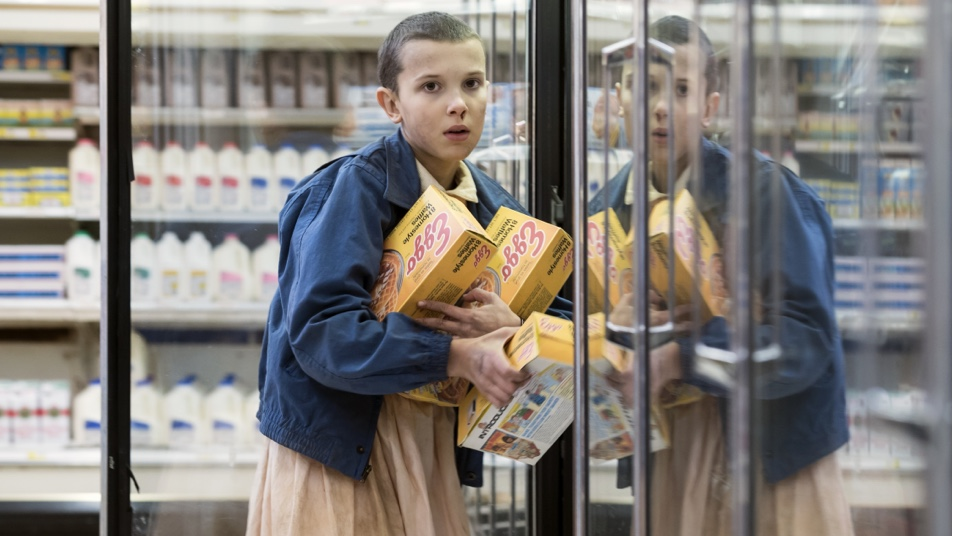
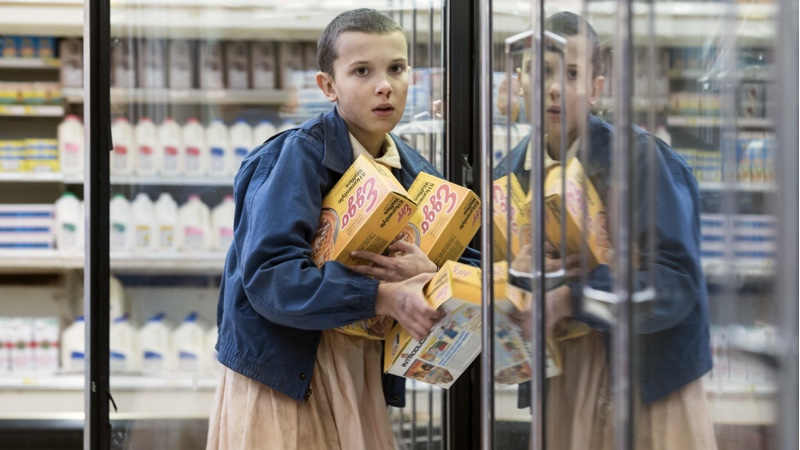
chore: img resize

diff --git a/src/app/core/unauthorised/unauthorised.component.html b/src/app/core/unauthorised/unauthorised.component.html
@@ -5,12 +5,13 @@
     again.
   </p>
 
-
-  <picture>
-    <source srcset="./assets/imgs/page-not-found.webp" type="image/webp">
-    <source srcset="./assets/imgs/page-not-found.png" type="image/png">
-    <img mat-card-image class="character-img" src="./assets/imgs/page-not-found.png" alt="404 page" width="auto"
-      height="auto">
-  </picture>
+  <div class="character-photo">
+    <picture>
+      <source srcset="./assets/imgs/page-not-found.webp" type="image/webp">
+      <source srcset="./assets/imgs/page-not-found.png" type="image/png">
+      <img mat-card-image class="character-img" src="./assets/imgs/page-not-found.png" alt="404 page" width="400px"
+        height="auto">
+    </picture>
+  </div>
 
 </div>
